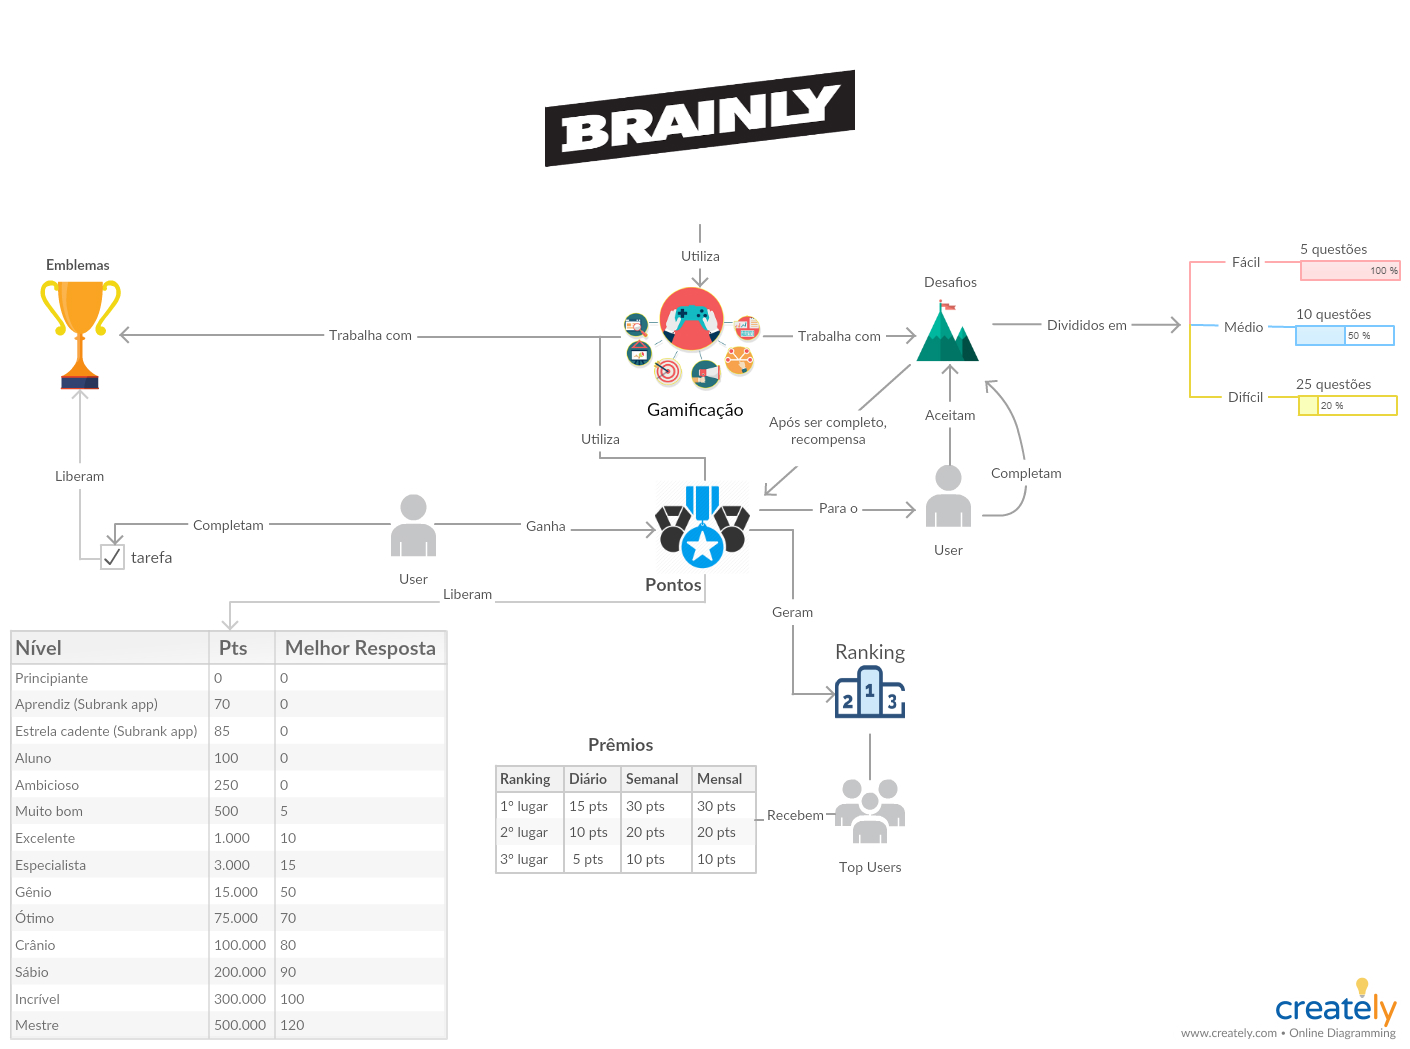
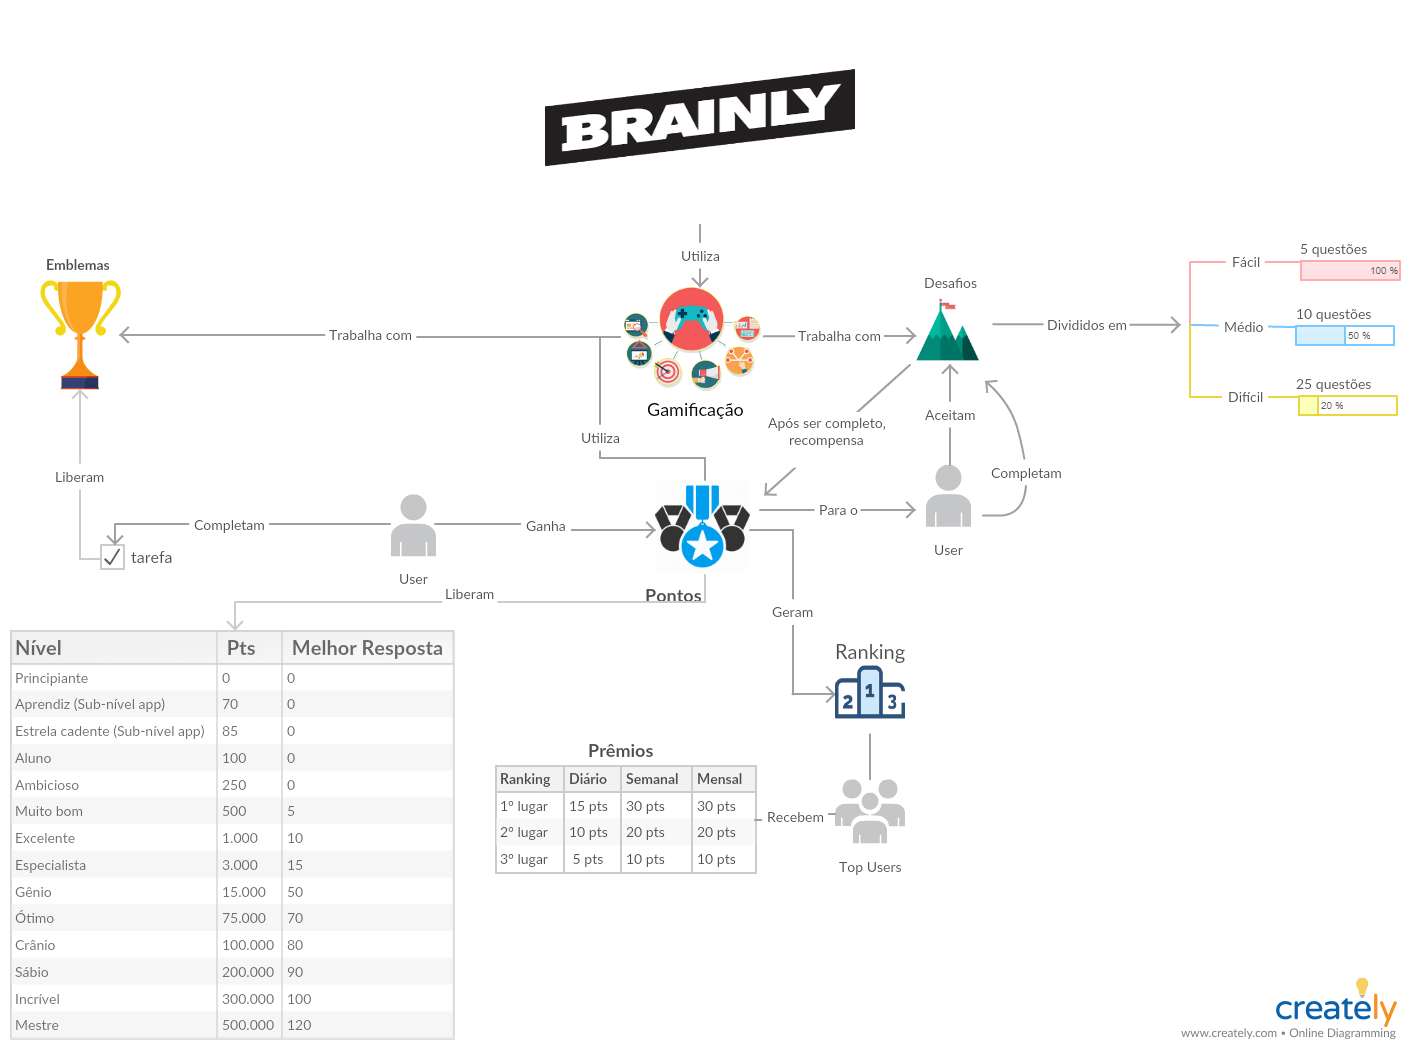
Updating gamification rich picture and rich picture concept

diff --git a/brainly/docs/rich_picture.md b/brainly/docs/rich_picture.md
@@ -1,4 +1,4 @@
-# RICHPICTURE
+# RICH PICTURE
 
 ## Versionamento
 
@@ -7,21 +7,23 @@
 | 1.0 | 31/03/2019 | Primeira versão RichPicture de gamificação | João Gabriel Rossi, Paulo Vitor, Ivan Diniz |
 | 1.1 | 31/03/2019 | Primeira versão RichPicture de plataformas | João Rodrigues, Lieverton Santos, Gustavo Marques |
 | 1.2 | 01/04/2019 | Primeira versão RichPicture de perguntas e respostas | André Pinto, Leonardo Medeiros, Welison Regis |
+| 1.3 | 1/04/2019 | Renomeando categorias da tabela de nível | João Gabriel Rossi|
 
-## RichPicture
+## Rich Picture
 
-Conceito...
+Rich picture é uma ferramenta/modelagem para análise de problemas e apresentação de ideias.
+É um desenho de uma situação que ilustra os elementos principais e relações que precisam ser levadas em consideração ao tentar criar alguma melhoria. Consiste de fotos, textos, símbolos e ícones, no qual todos são utilizados para ilustrar graficamente a situação.
 
-## RichPicture 1
+Um modelo completamente informal, normalmente criado sem um rigor muito técnico, visando poder ser criado junto com o próprio cliente, normalmente desenhado baseado em um problema central no meio de uma página em branco e criando tópicos relacionados com esse problema e as suas ramificações.
 
-## RichPicture Gamificação 1
+## RichPicture Gamificação 
 
 ![Rich picture gamification](images/rich_picture/rich_picture_gamification.jpg)
 
-## RichPicture Plataformas 1
+## RichPicture Plataformas 
 
 ![Rich picture plataformas](images/rich_picture/rich_picture_diff_platforms.jpg)
 
-## RichPicture Perguntas e Respostas 1
+## RichPicture Perguntas e Respostas 
 
 ![Rich picture perguntas e respostas](images/rich_picture/rich_picture_questions_answers.png)
